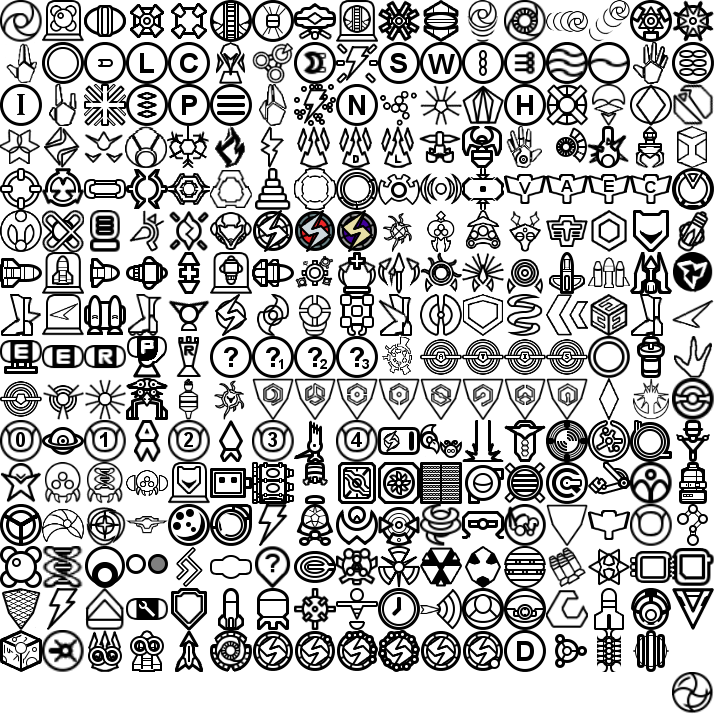
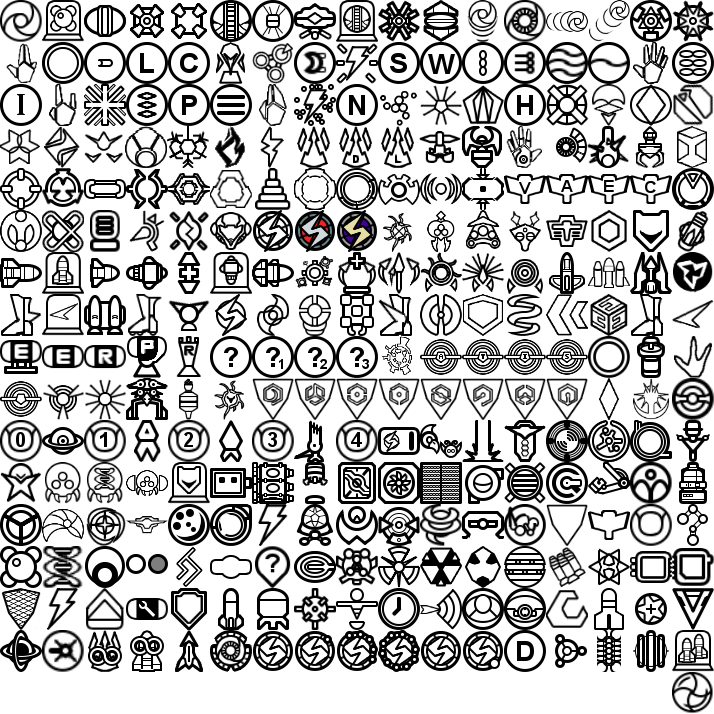
release update Delta; added Metroid Dread

Changed region(s): [[0.8627, 0.8011, 1.0, 0.9552], [0.0, 0.8627, 0.0616, 0.9552]]

diff --git a/js/rawData.js b/js/rawData.js
@@ -90,7 +90,7 @@ const rawData = {
         max: 7,
         segments: [],
         bg: "78a4bc",
-        nodeType: "upgrade",
+        nodeType: "expansion",
       },{
         id: "missileTank",
         sprite: "missile",
@@ -99,7 +99,7 @@ const rawData = {
         max: 31,
         segments: [],
         bg: "d82800",
-        nodeType: "upgrade",
+        nodeType: "expansion",
       },/* {
         id: "boss",
         name: "Access",
@@ -5534,7 +5534,7 @@ const rawData = {
         nodeType: "upgrade",
       },{
         id: "powerBomb",
-        name: "Power Bomb",
+        name: "Power Bombs",
         start: 0,
         max: 1,
         segments: [],
@@ -6354,6 +6354,269 @@ const rawData = {
         max: 1,
         segments: [],
         bg: "f82828",
+        nodeType: "upgrade",
+      },
+    ]
+  },
+  "md": {
+    width: 6,
+    items: [
+      {
+        id: "powerBeam",
+        name: "",
+        start: 0,
+        max: 1,
+        segments: [
+          {
+            id: "wideBeamA",
+            name: "Wide Beam",
+            start: 0,
+            max: 1,
+            bg: "ffff80",
+            nodeType: "upgrade",
+          },{
+            id: "plasmaBeam",
+            name: "Plasma Beam",
+            start: 0,
+            max: 1,
+            bg: "00ff08",
+            nodeType: "upgrade",
+          },{
+            id: "waveBeam",
+            name: "Wave Beam",
+            start: 0,
+            max: 1,
+            bg: "92278f",
+            nodeType: "upgrade",
+          },
+        ]
+      },{
+        id: "chargeBeam",
+        name: "",
+        start: 0,
+        max: 1,
+        segments: [
+          {
+            id: "chargeBeam",
+            name: "Charge Beam",
+            start: 0,
+            max: 1,
+            bg: "808000",
+            nodeType: "upgrade",
+          },{
+            id: "diffusionBeamA",
+            name: "Diffusion Beam",
+            start: 0,
+            max: 1,
+            bg: "9b9b9b",
+            nodeType: "upgrade",
+          },
+        ]
+      },{
+        id: "grappleBeam",
+        name: "Grapple Beam",
+        start: 0,
+        max: 1,
+        segments: [],
+        bg: "00e8d8",
+        nodeType: "upgrade",
+      },{
+        id: "missile",
+        name: "",
+        start: 0,
+        max: 1,
+        segments: [
+          {
+            id: "superMissile",
+            name: "Super Missiles",
+            start: 0,
+            max: 1,
+            bg: "007f0e",
+            nodeType: "upgrade",
+          },{
+            id: "freezeShot",
+            name: "Ice Missiles",
+            start: 0,
+            max: 1,
+            bg: "2038ec",
+            nodeType: "upgrade",
+          },
+        ]
+      },{
+        id: "seekerLauncher",
+        name: "Storm Missile",
+        start: 0,
+        max: 1,
+        segments: [],
+        bg: "644080",
+        nodeType: "upgrade",
+      },{
+        id: "invisibility",
+        name: "Phantom Cloak",
+        start: 0,
+        max: 1,
+        segments: [],
+        bg: "00ff08",
+        nodeType: "upgrade",
+      },{
+        id: "speedBoosterA",
+        name: "Flash Shift",
+        start: 0,
+        max: 1,
+        segments: [],
+        bg: "e900ff",
+        nodeType: "upgrade",
+      },{
+        id: "scanPulse",
+        name: "Pulse Radar",
+        start: 0,
+        max: 1,
+        segments: [],
+        bg: "00c7ff",
+        nodeType: "upgrade",
+      },{
+        id: "powerSuit",
+        name: "",
+        start: 0,
+        max: 1,
+        segments: [
+          {
+            id: "barrier",
+            name: "Varia Suit",
+            start: 0,
+            max: 1,
+            bg: "ff7e00",
+            nodeType: "upgrade",
+          },{
+            id: "gravitySuit",
+            name: "Gravity Suit",
+            start: 0,
+            max: 1,
+            bg: "602880",
+            nodeType: "upgrade",
+          },
+        ]
+      },{
+        id: "morphBall",
+        name: "Morph Ball",
+        start: 0,
+        max: 1,
+        segments: [],
+        bg: "d8a480",
+        nodeType: "upgrade",
+      },{
+        id: "bombC",
+        name: "Bombs",
+        start: 0,
+        max: 1,
+        segments: [],
+        bg: "3800a8",
+        nodeType: "upgrade",
+      },{
+        id: "crossBombs",
+        name: "Cross Bomb",
+        start: 0,
+        max: 1,
+        segments: [],
+        bg: "886848",
+        nodeType: "upgrade",
+      },{
+        id: "powerBomb",
+        name: "Power Bombs",
+        start: 0,
+        max: 1,
+        segments: [],
+        bg: "98b830",
+        nodeType: "upgrade",
+      },{
+        id: "powerGrip",
+        name: "Spider Magnet",
+        start: 0,
+        max: 1,
+        segments: [],
+        bg: "ff7b7b",
+        nodeType: "upgrade",
+      },{
+        id: "speedBooster",
+        name: "Speed Booster",
+        start: 0,
+        max: 1,
+        segments: [],
+        bg: "ff0094",
+        nodeType: "upgrade",
+      },{
+        id: "jumpBoots",
+        name: "",
+        start: 0,
+        max: 1,
+        segments: [
+          {
+            id: "spinBoost",
+            name: "Spin Boost",
+            start: 0,
+            max: 1,
+            bg: "c0a8d8",
+            nodeType: "upgrade",
+          },{
+            id: "spaceJump",
+            name: "Space Jump",
+            start: 0,
+            max: 1,
+            bg: "00a0e0",
+            nodeType: "upgrade",
+          },
+        ]
+      },{
+        id: "screwAttack",
+        name: "Screw Attack",
+        start: 0,
+        max: 1,
+        segments: [],
+        bg: "69cd69",
+        nodeType: "upgrade",
+      },{
+        id: "-",
+        name: "",
+        max: 0,
+      },{
+        id: "energyTank",
+        name: "Energy Tanks",
+        start: 0,
+        max: 8,
+        segments: [],
+        bg: "78a4bc",
+        nodeType: "upgrade",
+      },{
+        id: "energyPart",
+        name: "Energy Parts",
+        start: 0,
+        max: 16,
+        segments: [],
+        bg: "fcc4d8",
+        nodeType: "upgrade",
+      },{
+        id: "missileTank",
+        name: "Missile Tanks",
+        start: 0,
+        max: 75,
+        segments: [],
+        bg: "d82800",
+        nodeType: "upgrade",
+      },{
+        id: "doubleMissileTank",
+        name: "Missile+ Tanks",
+        start: 0,
+        max: 11,
+        segments: [],
+        bg: "007098",
+        nodeType: "upgrade",
+      },{
+        id: "powerBombTank",
+        name: "Power Bomb Tanks",
+        start: 0,
+        max: 13,
+        segments: [],
+        bg: "98b830",
         nodeType: "upgrade",
       },
     ]

diff --git a/spriteMapping.css b/spriteMapping.css
@@ -253,9 +253,9 @@ img.item-image.progressiveBeam { background: url("images/m_graphics.png") -462px
 img.item-image.progressiveBeamA { background: url("images/m_graphics.png") -504px -588px; }
 img.item-image.primeGrapple { background: url("images/m_graphics.png") -546px -588px; }
 img.item-image.progressiveMissile { background: url("images/m_graphics.png") -588px -588px; }
-img.item-image.omegaCannonA { background: url("images/m_graphics.png") -630px -588px; }
+img.item-image.crossBombs { background: url("images/m_graphics.png") -630px -588px; }
 img.item-image.mapMarker { background: url("images/m_graphics.png") -672px -588px; }
-img.item-image.phantomCloak { background: url("images/m_graphics.png") 0 -630px; }
+img.item-image.spinBoost { background: url("images/m_graphics.png") 0 -630px; }
 img.item-image.chargeBeamE { background: url("images/m_graphics.png") -42px -630px; }
 img.item-image.infiniteBeamAmmo { background: url("images/m_graphics.png") -84px -630px; }
 img.item-image.infiniteMissiles { background: url("images/m_graphics.png") -126px -630px; }
@@ -271,7 +271,7 @@ img.item-image.diffusionBeamA { background: url("images/m_graphics.png") -504px 
 img.item-image.novaBeamA { background: url("images/m_graphics.png") -546px -630px; }
 img.item-image.hypermode { background: url("images/m_graphics.png") -588px -630px; }
 img.item-image.iceMissileA { background: url("images/m_graphics.png") -630px -630px; }
-img.item-image.unused { background: url("images/m_graphics.png") -672px -630px; }
+img.item-image.doubleMissileTank { background: url("images/m_graphics.png") -672px -630px; }
 img.item-image.unused { background: url("images/m_graphics.png") 0 -672px; }
 img.item-image.unused { background: url("images/m_graphics.png") -42px -672px; }
 img.item-image.unused { background: url("images/m_graphics.png") -84px -672px; }

diff --git a/index.html b/index.html
@@ -40,6 +40,7 @@
               <option value="o">Metroid: Other M (Wii)</option>
               <option value="f">Metroid: Fusion (GBA)</option>
               <option value="n">Metroid: A New Galaxy (PC)</option>
+              <option value="d">Metroid: Dread (Switch)</option>
               <option value="" disabled>==  ZELDA  ==</option>
               <option value="z1">The Legend of Zelda (NES)</option>
               <option value="z2">Zelda II: The Adventure of Link (NES)</option>

diff --git a/js/main.js b/js/main.js
@@ -24,7 +24,7 @@ let main = {
     "o": "mom", // Metroid: Other M
     "f": "mf", // Metroid Fusion
     "n": "mng", // Metroid: A New Galaxy
-    // "d": "md" // Metroid Dread
+    "d": "md", // Metroid Dread
     "z1": "thf", // The Legend of Zelda
     "z2": "aol", // Zelda 2: The Adventure of Link
     "z3": "alttp", // The Legend of Zelda: A Link to the Past
